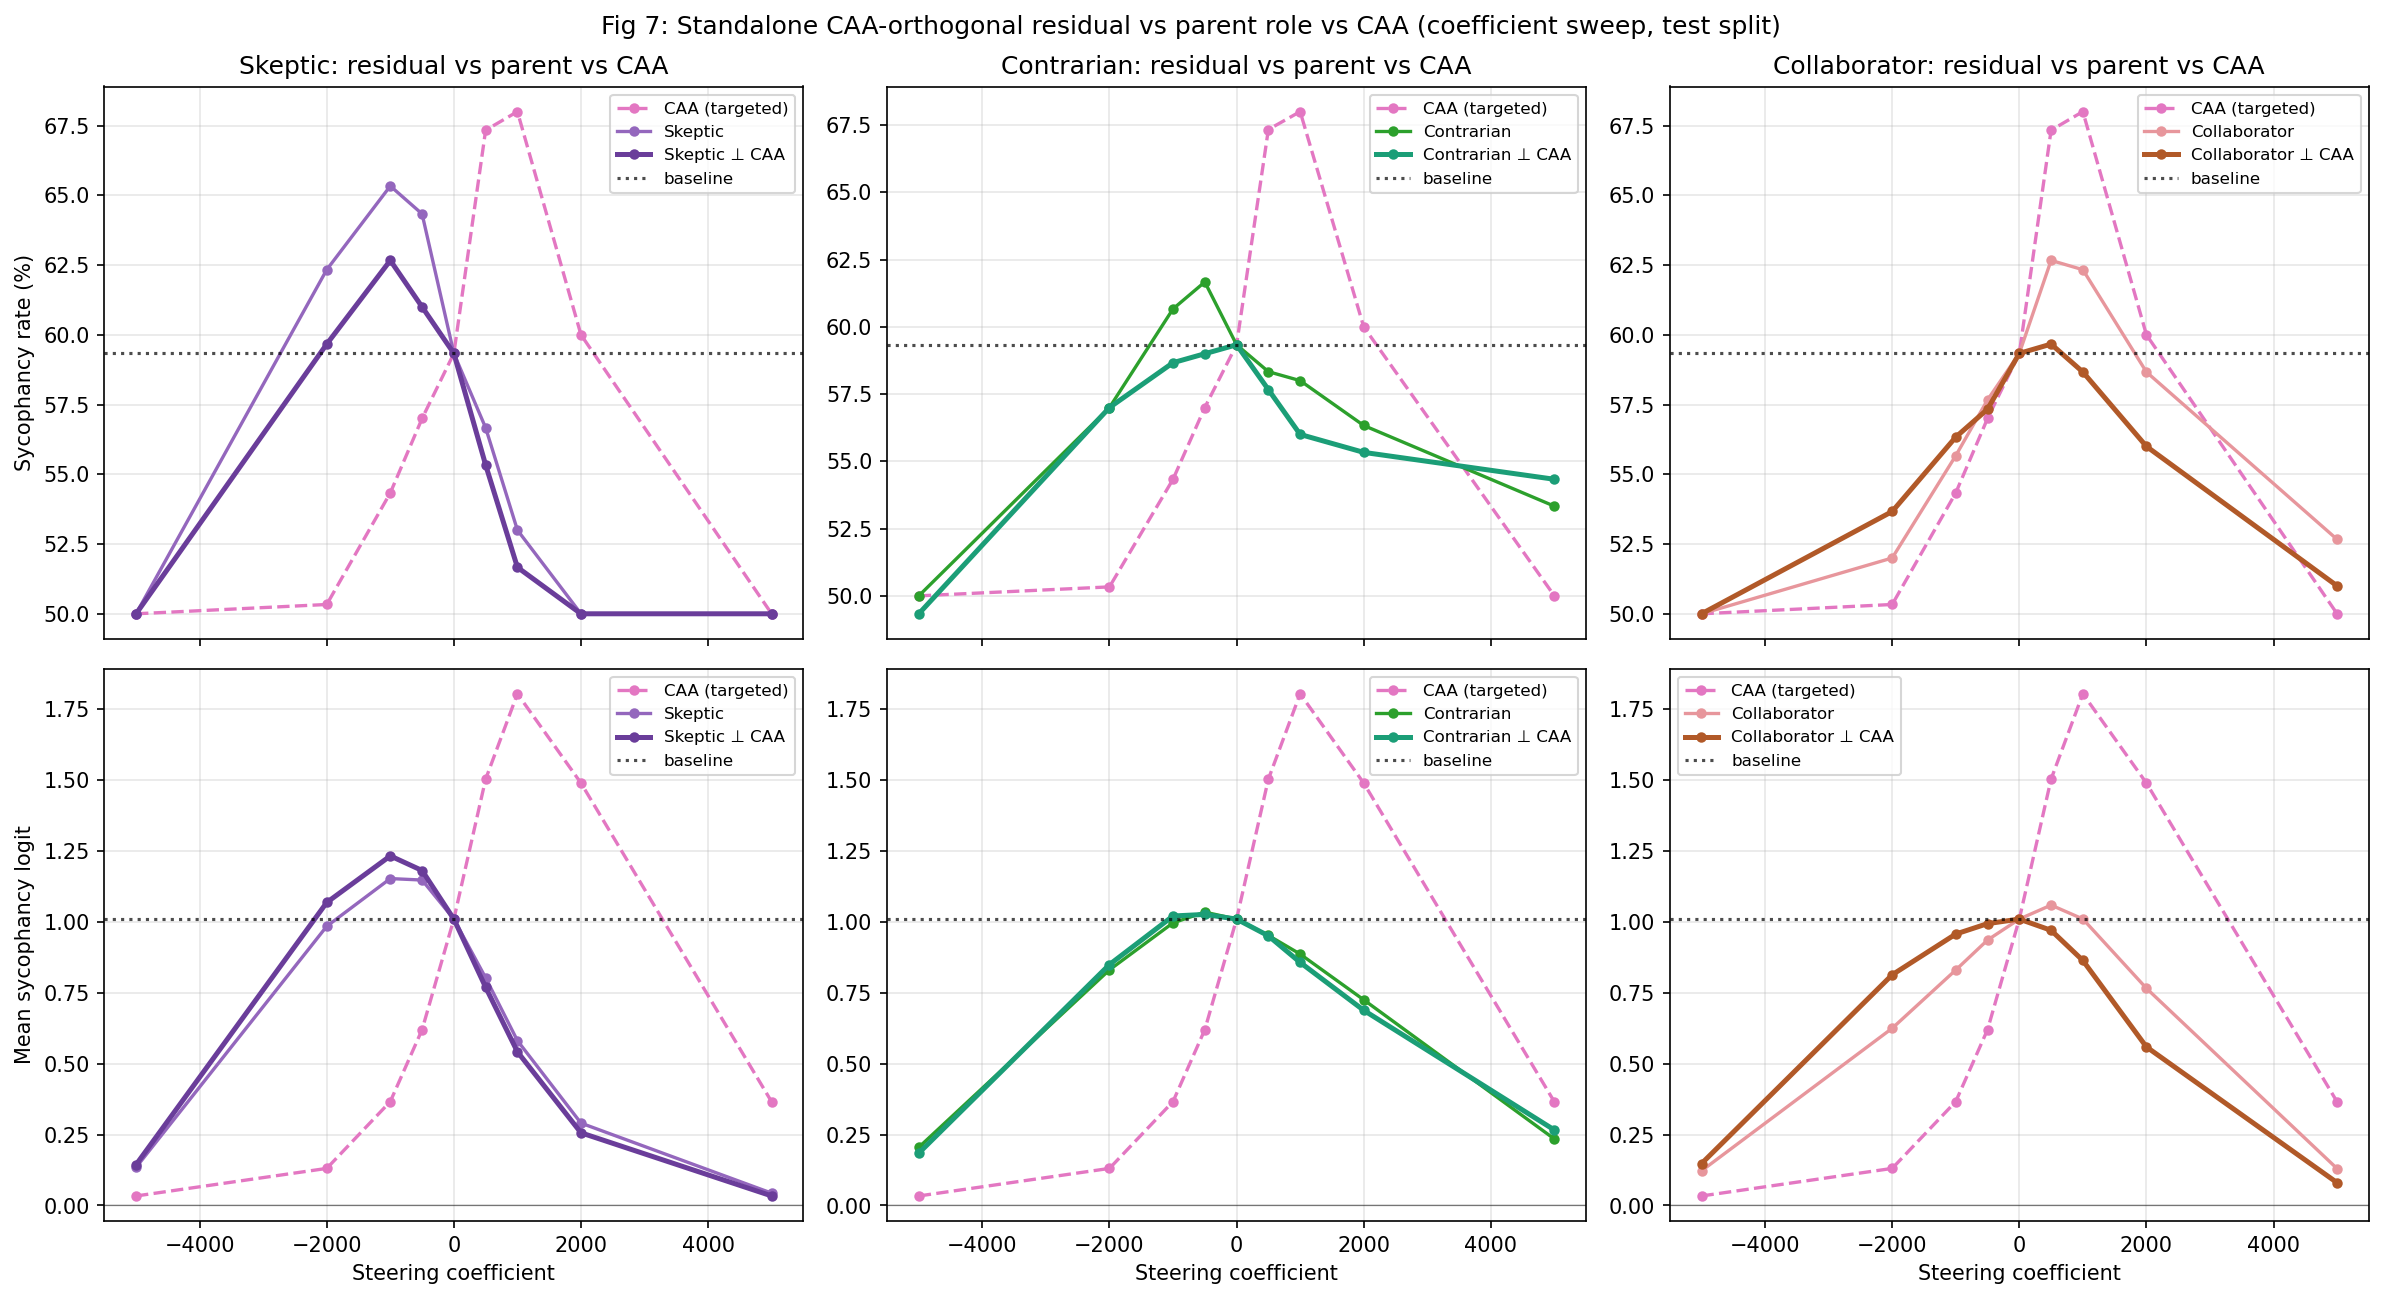
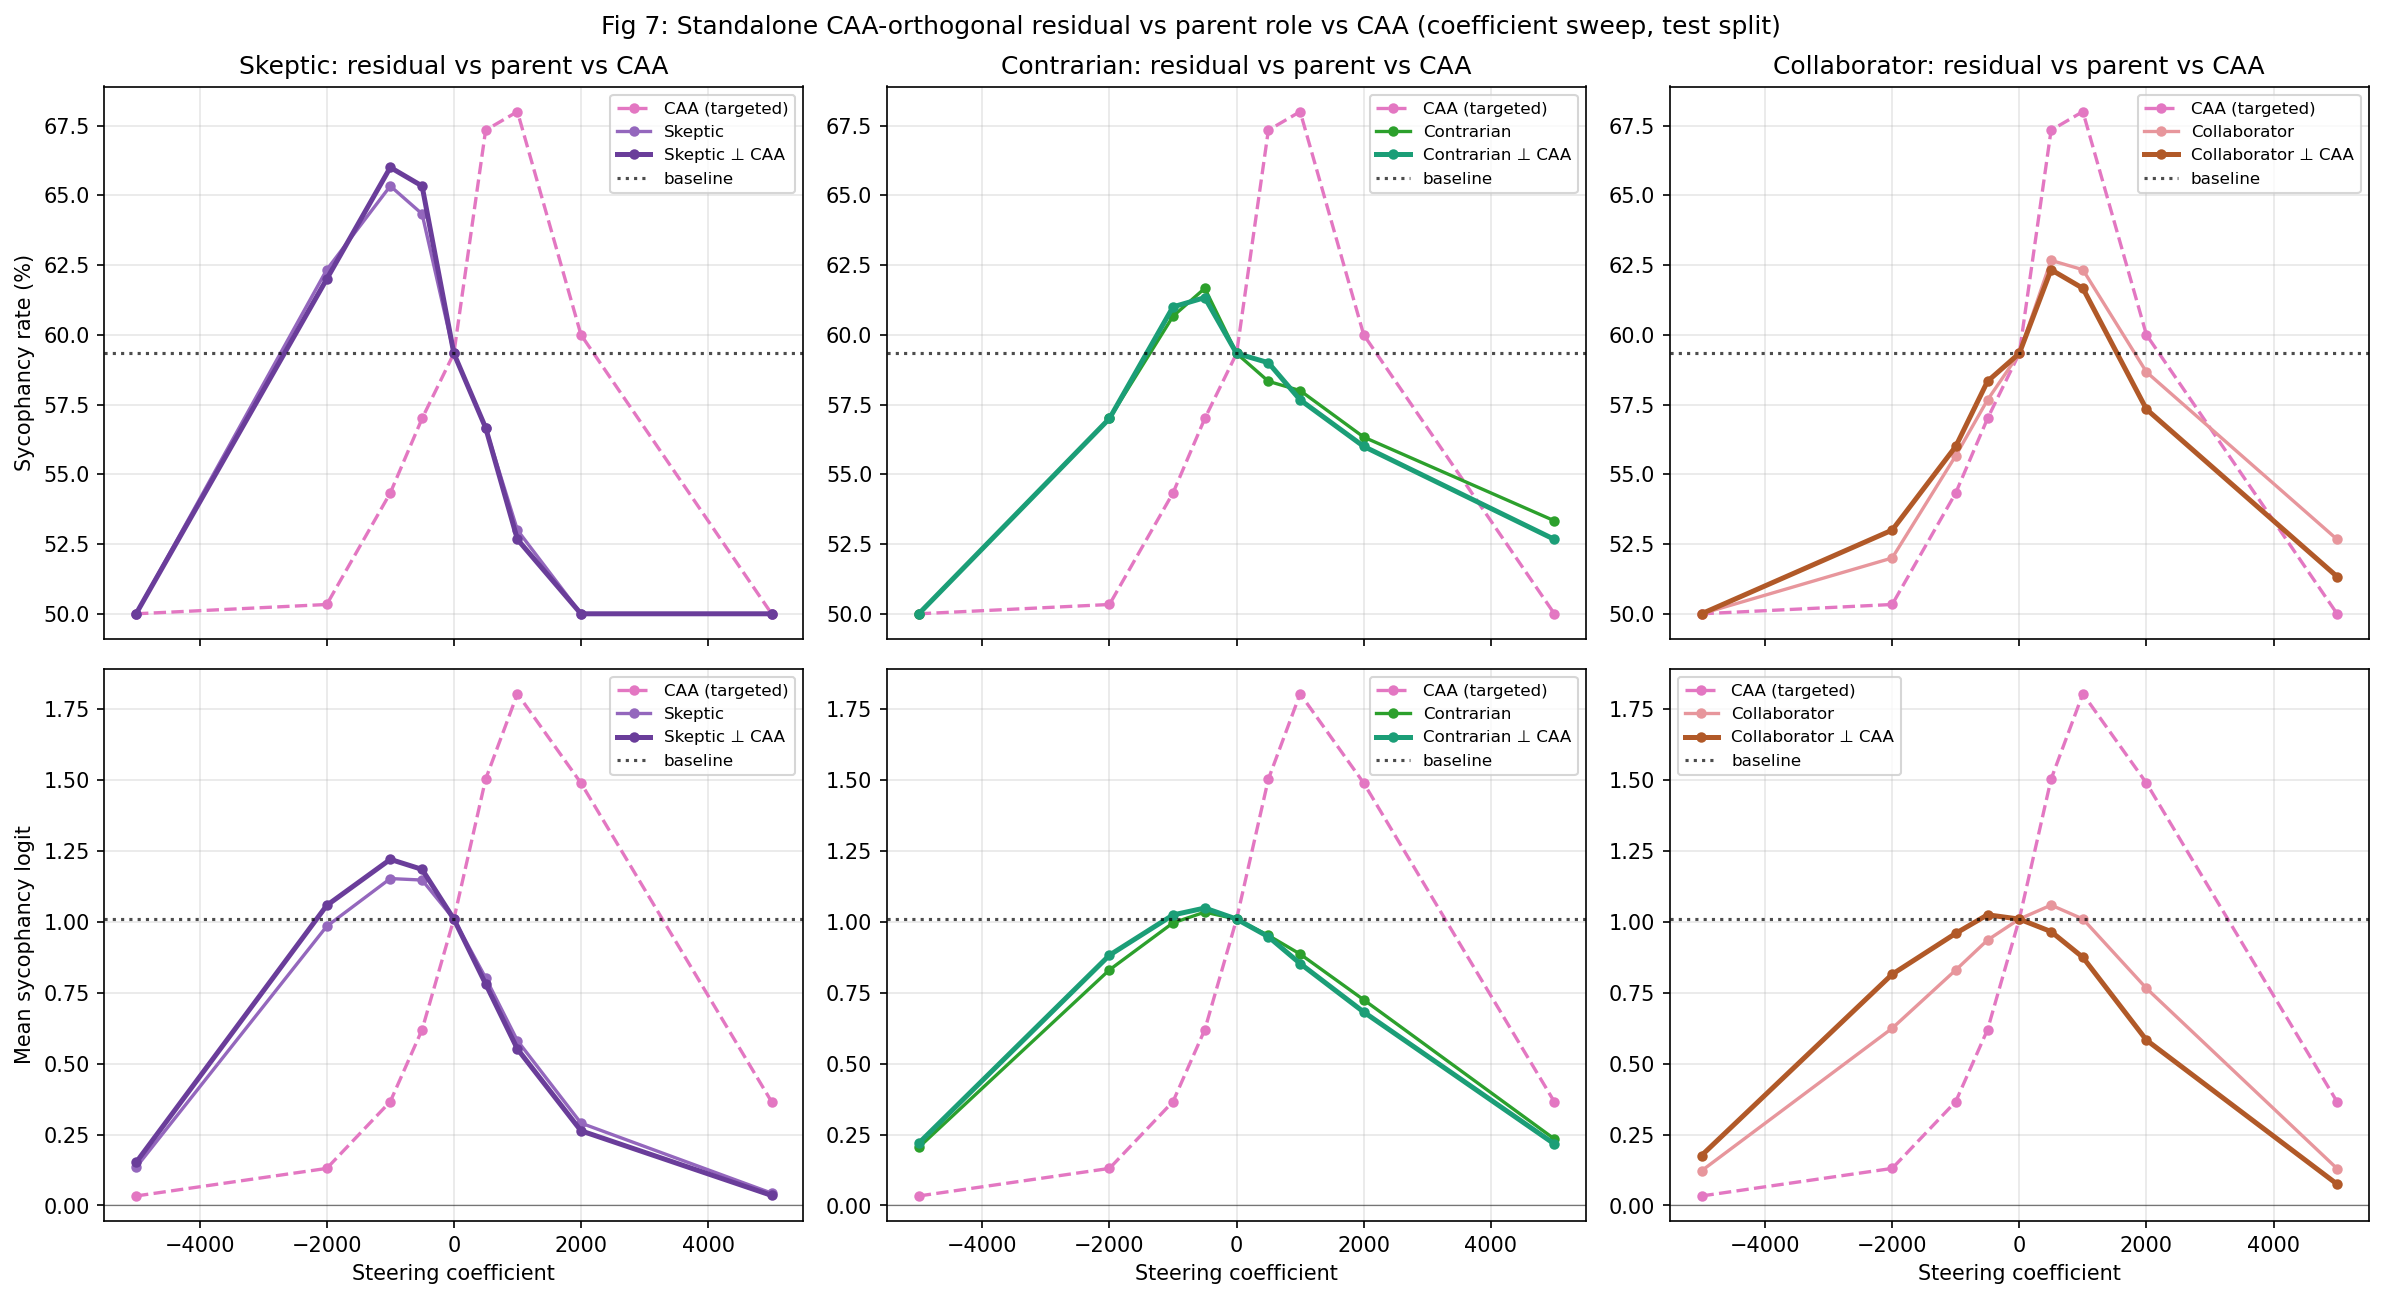
gemma: sync multiseed aggregate and residual CSV with 3-residual 3-seed run
Upstream rerun (kelkarI/sycophancy-final commit on same branch) added
the 3 residual conditions to every test seed's 02/03 pass and
regenerated the aggregate over 14 conditions. Syncing:
 - gemma/results/multiseed_aggregate_test.json (now 14 per_condition
   entries, n_seeds=3, contributing=[123, 42, 7], missing=[456, 789]).
 - gemma/results/residual_standalone_report_test.csv + summary_test.txt.
 - gemma/figures/fig7_residual_standalone_vs_parent.png (regenerated).
 - paper/tables/main_results_both_models.{csv,md} rebuilt by
   build_unified_table.py against the new aggregate.

Material change: contrarian_residual moves from "ns (p_holm=0.072)"
in the old single-seed report to Holm-sig on every seed in the
3-seed aggregate (per-seed p_adj all < 1e-9, 95% CI [-0.418, -0.242]
vs old [-0.552, -0.096]). Point estimate on delta_logit is essentially
unchanged (-0.328 vs -0.321); the CI tightened under the 3-seed
aggregate and the Wilcoxon statistic is now much stronger. Overall
pattern verdict is unchanged: standalone residuals reduce sycophancy
on both models, and the high-|cos| residual is not the worst reducer.

Paper text at README.md, RESULTS.md, LIMITATIONS.md still reports
Gemma contrarian_residual as "ns" -- that needs a separate text-only
follow-up commit to reflect the new 3-seed status, flagged here for
the human author.

Qwen section of the paper is unaffected.

diff --git a/paper/tables/main_results_both_models.md b/paper/tables/main_results_both_models.md
@@ -18,9 +18,9 @@ the Gemma multi-seed run) and multi-seed for the 21 other conditions.
 | gemma-2-27b-it | pacifist | +2000 | +1.009 | +0.105 ± 0.013 | 2.33 | 1/3 | 0.07248705531003066 |
 | gemma-2-27b-it | collaborator | +500 | +1.009 | +0.050 ± 0.009 | 3.33 | 2/3 | 0.002363166292437025 |
 | gemma-2-27b-it | facilitator | -5000 | +1.009 | -0.722 ± 0.019 | -9.0 | 0/3 | 1.0 |
-| gemma-2-27b-it | skeptic_residual | +2000 | +1.009 | -0.753 | -9.33 | 1 seed | 3.603023952696323e-11 |
-| gemma-2-27b-it | contrarian_residual | +2000 | +1.009 | -0.321 | -4.0 | 1 seed | 0.07248705531003066 |
-| gemma-2-27b-it | collaborator_residual | +5000 | +1.009 | -0.929 | -8.33 | 1 seed | 7.142077647409764e-19 |
+| gemma-2-27b-it | skeptic_residual | +2000 | +1.009 | -0.735 ± 0.026 | -9.33 | 3/3 | 3.603023952696323e-11 |
+| gemma-2-27b-it | contrarian_residual | +2000 | +1.009 | -0.323 ± 0.004 | -4.0 | 3/3 | 0.07248705531003066 |
+| gemma-2-27b-it | collaborator_residual | +5000 | +1.009 | -0.915 ± 0.028 | -8.33 | 3/3 | 7.142077647409764e-19 |
 | qwen3-32b | assistant_axis | +200 | +3.024 | -2.434 ± 0.082 | -21.33 | 3/3 | 1.6430997833803619e-19 |
 | qwen3-32b | caa | -200 | +3.024 | -1.989 ± 0.042 | -20.67 | 3/3 | 3.4244421096293767e-15 |
 | qwen3-32b | devils_advocate | +200 | +3.024 | -2.296 ± 0.071 | -15.33 | 3/3 | 2.5996968152224312e-18 |
